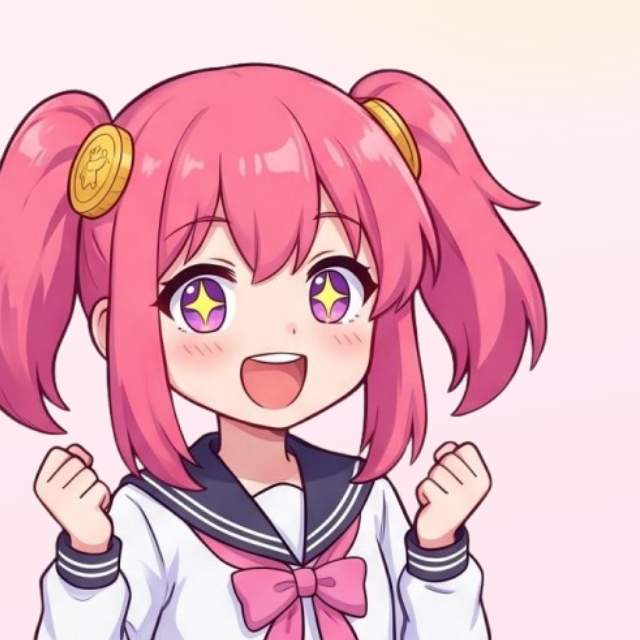
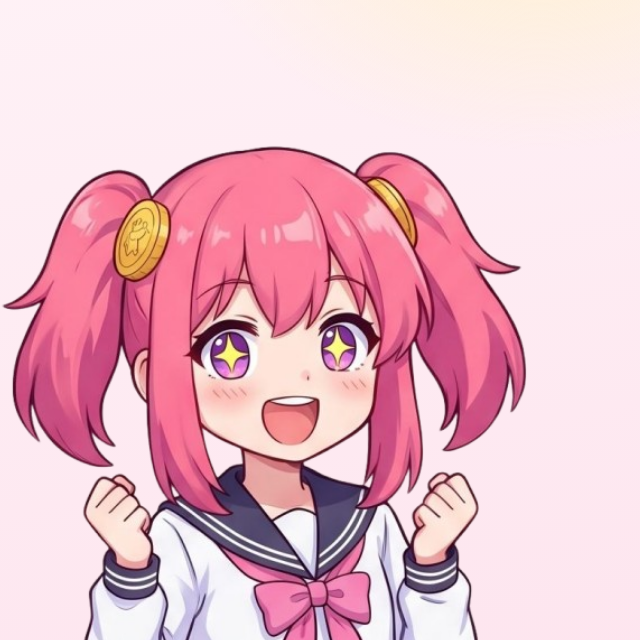
feat: AI 動画版へのコメント対応の下準備（入力画像を枠内に揃える・吹き出しを寄せる・UI の動きを大きく）
Claude-Session: https://claude.ai/code/session_01H2JQqdMCeKNiMVUTrAyX2t

diff --git a/ops/data/x-cards/follower-300-grok/layer-ui.html b/ops/data/x-cards/follower-300-grok/layer-ui.html
@@ -28,7 +28,7 @@ body{font-family:Z,sans-serif;color:var(--ink);overflow:hidden;position:relative
 .ribbon .t{position:absolute;inset:0;display:flex;align-items:center;justify-content:center;color:#fff;font-weight:900;font-size:52px;letter-spacing:.14em;top:-9px}
 .mascot{position:absolute;left:-74px;bottom:-24px;width:650px;
  -webkit-mask-image:linear-gradient(to bottom,#000 82%,transparent 99%)}
-.bubble{position:absolute;left:36px;top:64px;width:470px;height:250px}
+.bubble{position:absolute;left:40px;top:228px;width:470px;height:250px;transform-origin:52% 100%}
 .bubble .tx{position:absolute;left:24px;right:24px;top:34px;text-align:center}
 .bubble .a{font-weight:900;font-size:52px;color:var(--p600);letter-spacing:.04em;line-height:1.2}
 .bubble .b{font-weight:700;font-size:36px;color:var(--ink);line-height:1.4;margin-top:8px}
@@ -43,16 +43,25 @@ body{font-family:Z,sans-serif;color:var(--ink);overflow:hidden;position:relative
 .sum li em{font-style:normal;color:var(--p600)}
 
 /* 動き（1 周 3 秒・GIF 用）。currentTime で 1 コマずつ止めて撮る */
-@keyframes tw{0%,100%{transform:scale(.55);opacity:.35}50%{transform:scale(1.15);opacity:1}}
-@keyframes fl{0%,100%{transform:translateY(0)}50%{transform:translateY(-14px)}}
-@keyframes bob{0%,100%{transform:translateY(0)}50%{transform:translateY(-8px)}}
-@keyframes pop{0%,100%{transform:scale(1)}12%{transform:scale(1.06)}24%{transform:scale(1)}}
-@keyframes rib{0%,100%{transform:translateY(0) rotate(0)}18%{transform:translateY(-6px) rotate(-1.5deg)}30%{transform:translateY(0) rotate(0)}}
-.tw{transform-box:fill-box;transform-origin:center;animation:tw 2s ease-in-out infinite}
-.fl{transform-box:fill-box;transform-origin:center;animation:fl 3s ease-in-out infinite}
-.bubble{animation:bob 3s ease-in-out infinite;animation-delay:-.8s}
+@keyframes tw{0%,100%{transform:scale(.3) rotate(0);opacity:.2}50%{transform:scale(1.6) rotate(45deg);opacity:1}}
+@keyframes fl{0%,100%{transform:translateY(0) scale(1)}50%{transform:translateY(-34px) scale(1.25)}}
+@keyframes bubble{0%{transform:scale(.6);opacity:0}8%{transform:scale(1.12);opacity:1}14%{transform:scale(.96)}20%,100%{transform:scale(1)}}
+@keyframes bobb{0%,100%{translate:0 0}50%{translate:0 -10px}}
+@keyframes pop{0%{transform:scale(.7)}10%{transform:scale(1.22) rotate(-3deg)}18%{transform:scale(.94) rotate(2deg)}26%{transform:scale(1.06) rotate(0)}34%,100%{transform:scale(1)}}
+@keyframes lead{0%,30%,100%{transform:translateY(0)}36%{transform:translateY(-18px)}42%{transform:translateY(0)}46%{transform:translateY(-8px)}50%{transform:translateY(0)}}
+@keyframes rib{0%,20%{transform:scale(0) rotate(-12deg)}30%{transform:scale(1.25) rotate(4deg)}38%{transform:scale(.95) rotate(-2deg)}46%,100%{transform:scale(1) rotate(0)}}
+@keyframes li{0%,100%{transform:translateX(0) scale(1);background:transparent}6%{transform:translateX(-10px) scale(1.06);background:rgba(253,228,238,.95)}14%{transform:translateX(0) scale(1);background:transparent}}
+@keyframes top{0%,100%{letter-spacing:.3em}50%{letter-spacing:.42em}}
+.tw{transform-box:fill-box;transform-origin:center;animation:tw 1.5s ease-in-out infinite}
+.fl{transform-box:fill-box;transform-origin:center;animation:fl 1.5s ease-in-out infinite}
+.bubble{animation:bubble 3s ease-out infinite,bobb 1.5s ease-in-out infinite}
 .num{animation:pop 3s ease-out infinite;transform-origin:50% 60%}
+.lead{animation:lead 3s ease-out infinite}
+.top{animation:top 3s ease-in-out infinite}
+.sum li{border-radius:16px;animation:li 3s ease-out infinite}
+.sum li:nth-child(1){animation-delay:.6s}.sum li:nth-child(2){animation-delay:.9s}.sum li:nth-child(3){animation-delay:1.2s}.sum li:nth-child(4){animation-delay:1.5s}
 .ribbon .t,.ribbon svg{animation:rib 3s ease-out infinite;transform-origin:50% 50%}
+.ribbon svg{position:absolute;left:0;top:0}
 
 /* キャラの演技（4 秒で一周）: 腕組みで「ふん」→ ほっぺを膨らませる → 両手でガッツポーズ → 手を振る */
 .chr{position:absolute;left:-74px;bottom:-24px;width:650px;height:650px;
@@ -126,9 +135,9 @@ for(let i=0;i<22;i++){const x=r()*1080,y=r()*1080,R=8+r()*22;if(x>520)continue;i
  add('circle',{cx:x,cy:y,r:R,fill:['#FFFFFF','#F8C9D9','#FFF1C8'][i%3],opacity:.55+r()*.3});}
 // ハート
 let hi=0;const heart=(x,y,z,c,o)=>{const g=add('g',{transform:`translate(${x},${y}) scale(${z}) rotate(${-15+r()*30} 12 10)`});const e=document.createElementNS(ns,'path');e.setAttribute('d','M0 6 C0 -2 10 -4 12 3 C14 -4 24 -2 24 6 C24 14 12 20 12 22 C12 20 0 14 0 6 Z');e.setAttribute('fill',c);e.setAttribute('opacity',o);e.setAttribute('class','fl');e.style.animationDelay=(-(hi++)*0.5)+'s';g.appendChild(e);};
-[[1012,150,1.6],[1036,566,1.2],[470,400,1.9],[40,360,1.6],[520,40,1.1],[30,30,1.2]].forEach(([x,y,z],i)=>heart(x,y,z,i%2?'#F09DBB':'#EC5C90',.75));
+[[1012,150,2.2],[1036,566,1.8],[500,520,2.4],[60,120,2.2],[480,60,1.6],[260,60,1.8]].forEach(([x,y,z],i)=>heart(x,y,z,i%2?'#F09DBB':'#EC5C90',.75));
 // きらきら
 let si=0;const star=(x,y,z,c)=>{const g=add('g',{transform:`translate(${x},${y}) scale(${z})`});const e=document.createElementNS(ns,'path');e.setAttribute('d','M0 -12 Q2 -2 12 0 Q2 2 0 12 Q-2 2 -12 0 Q-2 -2 0 -12 Z');e.setAttribute('fill',c);e.setAttribute('class','tw');e.style.animationDelay=(-(si++)*0.5)+'s';g.appendChild(e);};
-[[1040,90,1.4],[570,150,1.2],[1040,300,1.1],[560,500,1.3],[1030,520,1.1],[440,470,1.2],[100,420,1],[510,20,1]].forEach(([x,y,z],i)=>star(x,y,z,i%2?'#F5C518':'#FFFFFF'));
+[[1040,90,1.4],[570,150,1.2],[1040,300,1.1],[560,500,1.3],[1030,520,1.1],[250,150,1.4],[440,170,1.2],[510,20,1]].forEach(([x,y,z],i)=>star(x,y,z,i%2?'#F5C518':'#FFFFFF'));
 </script>
 </body></html>

diff --git a/.claude/skills/x-post-images/SKILL.md b/.claude/skills/x-post-images/SKILL.md
@@ -320,6 +320,7 @@ cat public/images/<slug>/photos/_manifest.json
 | 2026-10-03 | **キャラクターのコンポーネントだけが動いているだけで、まったく動画感がない。キャラ自体の腕を動かしたり、表情が変わったりすればいい**（GIF 1 版目） | **飾りを揺らすだけでは「動画」にならない。キャラに演技をさせる。** 表情違いの `expr-*.png` は顔の位置と大きさがほぼ揃っているので、**コマを切り替えて腕と表情を変える**（腕組み → ふくれ顔 → ガッツポーズで跳ねる → 手を振る）。切り替えの瞬間に 4% 弾ませる。**`expr-03-bashful.png` は上端に透かし文字が残っているので使わない。** 手を振る絵は上げた手が端で切れやすいので、**不透明部分の幅を測ってから**縮尺と位置を決める |
 | 2026-10-03 | **キャラ自体が動いているだけで、手自体が揺れて動いたりしていない。手自体を振るような動きをちゃんとやってほしい。ごまかして作成しているようにしか見えない**（GIF 2 版目。2 版目は残す指示） | **絵を切り替えたり全体を揺らしたりするのは「ごまかし」に見える。体の一部そのものを動かす。** `scripts/gen-expr-wave.mjs` で、手だけを多角形で切り出して手首を軸に回し、袖口を上に重ねて継ぎ目を隠した 9 コマを作る。**範囲を重みでぼかして全体を歪ませる方法は、髪飾りや髪の束まで歪んで失敗した。** 振り幅は髪に重なる内側を中心にし、外側へ振って空いたすき間は右隣の髪のピンクで埋める。レビューページに載せる GIF は 720px に縮める（ページの上限 16MB） |
 | 2026-10-03 | **各ポーズにも人間が動いてるかのような動きを。手と服の間に切れ目が出来ているので、ちゃんと AI を使って動画を生成して**／**基本的に無料で作って欲しい** | **AI の動画は無料で作れる。** Hugging Face の無料デモ `Lightricks/ltx-video-distilled`（画像 → 動画）を **Mac から** `gradio_client` で呼ぶ（`ops/tasks/x212`・`x213`）。1 本 10 秒ほどで返る。**クラウドから呼ぶと匿名の GPU 枠が尽きている**（接続元を大勢と共有）。Mac 側の匿名枠は **1 日 3 本ほど**。入力は「カードの背景にキャラを置いた 640×640」にして、できた動画を同じ位置に戻す（`scripts/compose-ai-chr.mjs`）。**文字やパネルは AI に描かせず、上に重ねる。** X の Grok は 4 回試して動画を作れなかった（「静止画だけ」と返る）。ToonCrafter は 1 回 180 秒の枠が要り、匿名では足りない。**指示文によっては変な動き（あくび）になる**ので、コマを並べて確かめてから使う |
+| 2026-10-03 | **腕組みの動画が左に寄りすぎてはみ出している／細目になるときに目が変わる。原型を崩すのは NG／吹き出しがキャラから遠すぎる／キャラ以外の動きが弱すぎる。文字のサイズの変化など、もっとモーションを足さないと動画にした意味がない**（AI 動画版） | **AI に渡す入力は、キャラ全体が枠に収まった絵にする**（全ポーズを同じ 0.86 倍・同じ位置に揃える。はみ出した絵を渡すと、はみ出したまま動く）。**指示文で「目の形・表情の作りを変えない」と縛る**（細目・あくびのような崩れが出た）。吹き出しは**しっぽの先が頭のすぐ上**に来る位置へ。UI の動きは「揺れる」では弱い。**数字は 0.7→1.22 倍で弾む、リボンは 0 から跳ねて出る、吹き出しは弾んで出る、一覧は 1 行ずつ光る、ハートは 30px 浮く**くらいにする。**最初のコマは X の一覧に出る**ので、全部が揃った時点から始める（`compose-ai-chr.mjs` の offsetMs） |
 <!-- 追記はこの表の下に。日付・指摘・反映 の 3 列を必ず埋める -->
 
 ## 7. 関連
